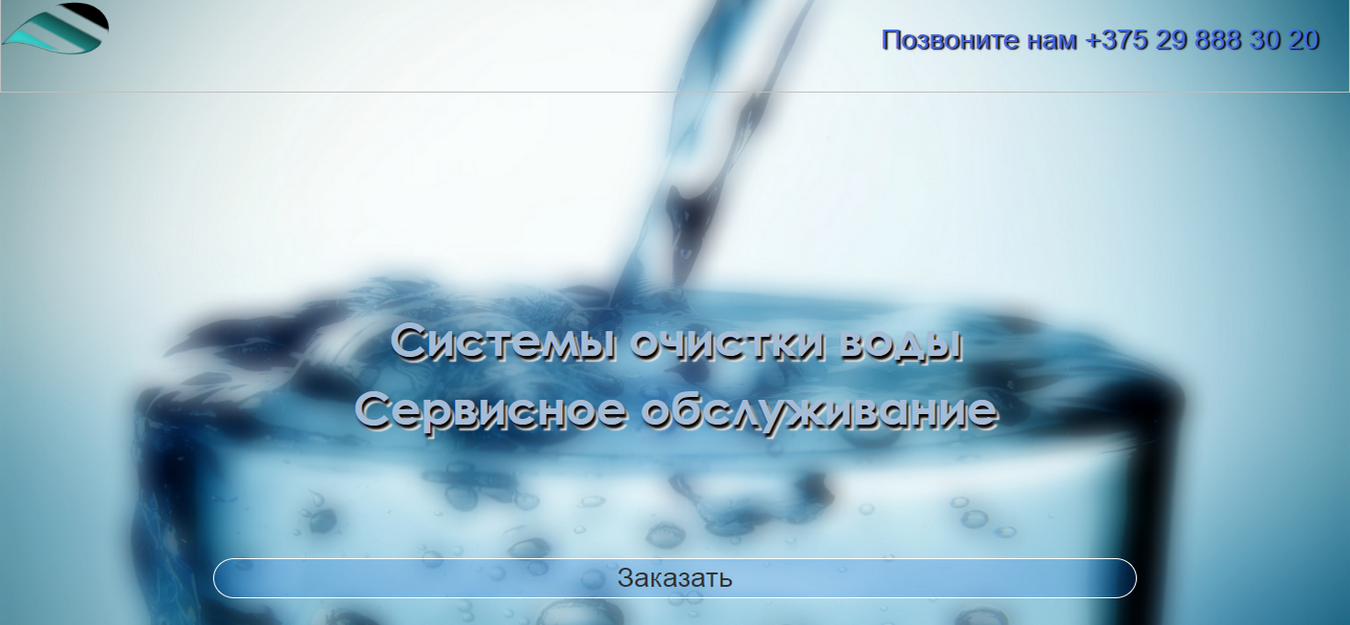
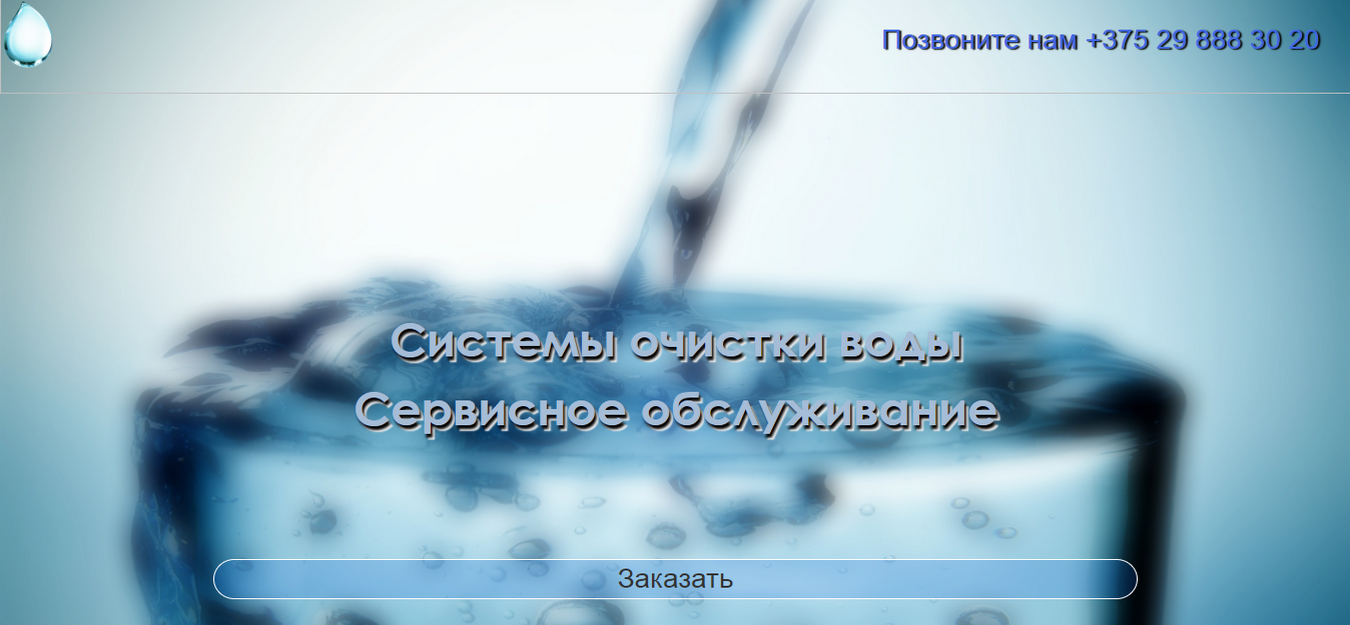
finish1

diff --git a/filter/css/style.css b/filter/css/style.css
@@ -84,7 +84,7 @@ body, html{
 }
 
 .menu .logo{
-	width: 8%;
+	width: 4%;
 	float: left;
 }
 
